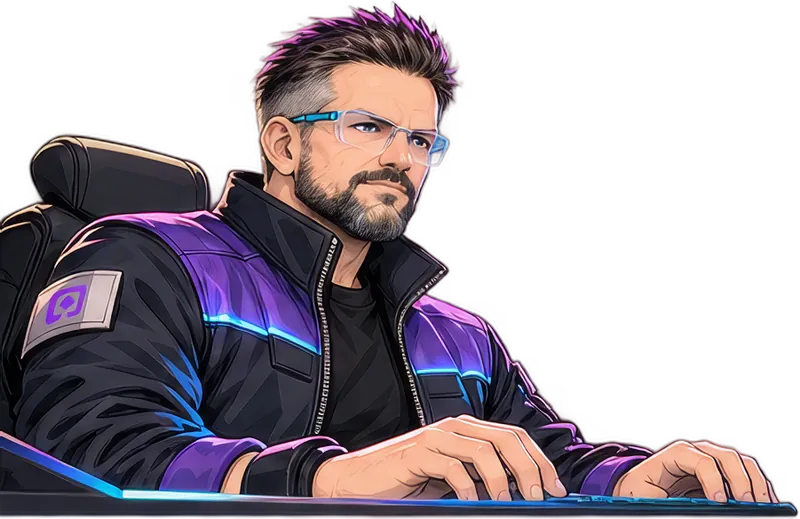
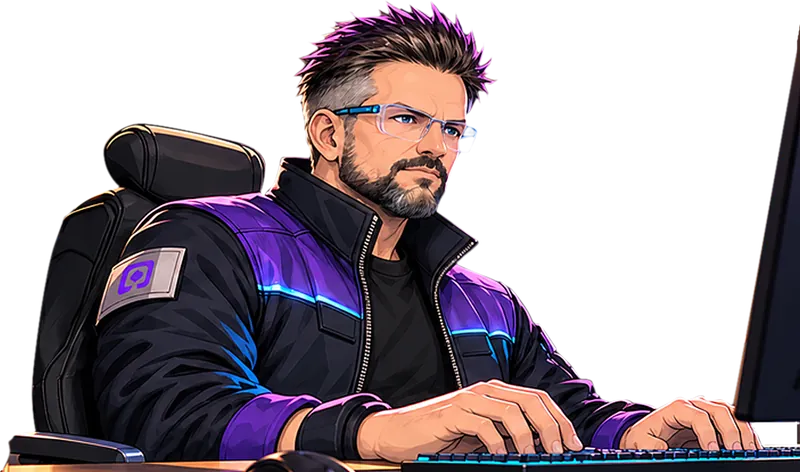
update commander-tob-working

diff --git a/docs/index.html b/docs/index.html
@@ -213,7 +213,7 @@
         </div>
         <div class="tob-explainer" data-tabs>
           <div class="tob-poster">
-            <img src="assets/artwork/commander-tob-working.webp" alt="" width="800" height="519" loading="lazy" />
+            <img src="assets/artwork/commander-tob-working.webp" alt="" width="800" height="472" loading="lazy" />
             <p><span class="tob-series">Commander Tob explains</span><span class="tob-poster-title" data-tab-caption>Start with a question.</span></p>
           </div>
           <div class="tob-topics">

diff --git a/docs/de.html b/docs/de.html
@@ -213,7 +213,7 @@
         </div>
         <div class="tob-explainer" data-tabs>
           <div class="tob-poster">
-            <img src="assets/artwork/commander-tob-working.webp" alt="" width="800" height="519" loading="lazy" />
+            <img src="assets/artwork/commander-tob-working.webp" alt="" width="800" height="472" loading="lazy" />
             <p><span class="tob-series">Commander Tob erklärt</span><span class="tob-poster-title" data-tab-caption>Stell eine Frage.</span></p>
           </div>
           <div class="tob-topics">

diff --git a/docs/development/website.md b/docs/development/website.md
@@ -267,7 +267,7 @@ They are illustrations and brand assets, not product evidence.
 | `brand/logo.svg`, `brand/brandmark.svg`, `brand/core.svg` | Illustrator exports from the mockup; editor IDs removed, `<title>` added. |
 | `favicon.svg` | Picture mark (`MagicStick_picture-mark.svg`) supplied by QualityMinds, October 2026; XML declaration and editor IDs removed, `<title>` added. |
 | `artwork/command-centre.jpg` | Hero background and social preview, 1670 × 942. Unchanged mockup file (Adobe Photoshop 27.10 export of 2 October 2026 with an Adobe Content Credentials/C2PA manifest, which a re-encode would strip). Decorative (`alt=""`). The screen in the scene shows third-party service marks (among them OpenAI and Kubernetes); review this before a wider campaign use and replace the file if brand clearance is not available. |
-| `artwork/commander-tob-standing.webp` (560 × 812), `artwork/commander-tob-avatar.webp` (200 × 247), `artwork/commander-tob-working.webp` (800 × 519), `artwork/commander-tob-sitting.webp` (900 × 659) | Commander Tob character illustrations from the QualityMinds marketing concept of 16 October 2026 (`C-Tob_standing_cut_01_single.png`, `Avatar_Commander_Tob_Frontal_Base.png`, `Commander_Tob_working_01_single.png`, `C-Tob_Fullcolor_sitting_V1.png`). Transparent margins trimmed, scaled down and converted with Pillow at WebP quality 80; no other pixel changes. Decorative (`alt=""`), loaded lazily. Creator rights and the likeness release belong to the collateral review in [THIRD_PARTY_NOTICES.md](../../THIRD_PARTY_NOTICES.md). |
+| `artwork/commander-tob-standing.webp` (560 × 812), `artwork/commander-tob-avatar.webp` (200 × 247), `artwork/commander-tob-working.webp` (800 × 472), `artwork/commander-tob-sitting.webp` (900 × 659) | Commander Tob character illustrations from the QualityMinds marketing concept of 16 October 2026 (`C-Tob_standing_cut_01_single.png`, `Avatar_Commander_Tob_Frontal_Base.png`, `C-Tob_Fullcolor_sitting_V1.png`); the working illustration follows the updated developer-kit asset `tob-working.png` of 20 October 2026. Transparent margins trimmed, scaled down and converted with Pillow at WebP quality 80; no other pixel changes. Decorative (`alt=""`), loaded lazily. Creator rights and the likeness release belong to the collateral review in [THIRD_PARTY_NOTICES.md](../../THIRD_PARTY_NOTICES.md). |
 | `artwork/side-workstation.webp`, `artwork/entrance.webp` | Blurred backgrounds of the first-use and closing sections, converted from the mockup PNGs (1672 × 941) with Pillow at WebP quality 78. Used as CSS backgrounds only. |
 | `artwork/video-poster.webp` | Product-video poster, 960 × 540, from the marketing team's video preview (October 2026; Canva export). Converted from PNG with Pillow at WebP quality 84, pixels unchanged. Shows Tobias Varlemann and the German title "Was kann der Magic Stick."; decorative in the markup (`alt=""`) because the link text names the video. Publication of the portrait and name is the marketing team's clearance, not a repository decision. |
 
